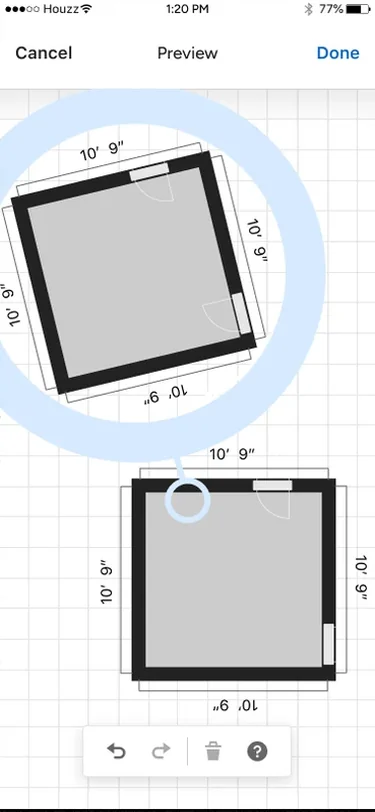
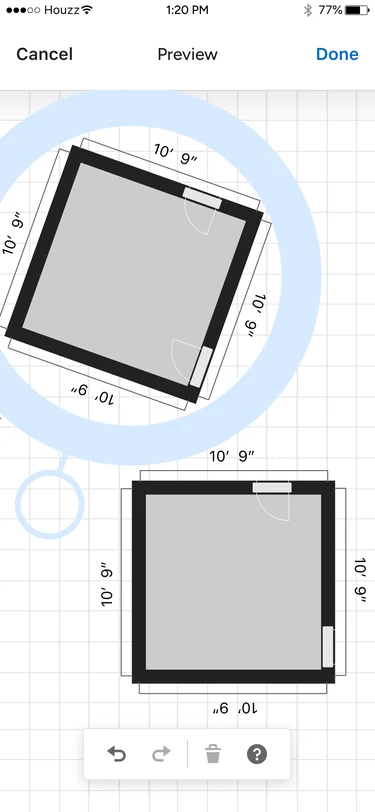
Swap in the re-shot rotation frame
The new export catches the handle mid-drag, clear of the room below it,
so the gesture reads instead of overlapping. It also drops the dark
frame line and the black bar along the bottom edge that the first
export carried.

diff --git a/work/multi-room-mobile-scan.html b/work/multi-room-mobile-scan.html
@@ -698,7 +698,7 @@
       <img src="../media/multi-room/tutorial-1.webp" alt="Tutorial slide: how to move rooms" width="375" height="812" loading="lazy" decoding="async">
       <img src="../media/multi-room/tutorial-2.webp" alt="Tutorial slide: how to rotate rooms" width="375" height="812" loading="lazy" decoding="async">
       <img src="../media/multi-room/tutorial-3.webp" alt="Tutorial slide: how to delete rooms" width="375" height="812" loading="lazy" decoding="async">
-      <img src="../media/multi-room/tutorial-4.webp" alt="The controls in use: a room turned on its rotation handle to line up with the one below it" width="375" height="812" loading="lazy" decoding="async">
+      <img src="../media/multi-room/tutorial-4.webp?v=2" alt="The controls in use: a room turned on its rotation handle to line up with the one below it" width="375" height="812" loading="lazy" decoding="async">
     </figure>
   </section>
 </div>
